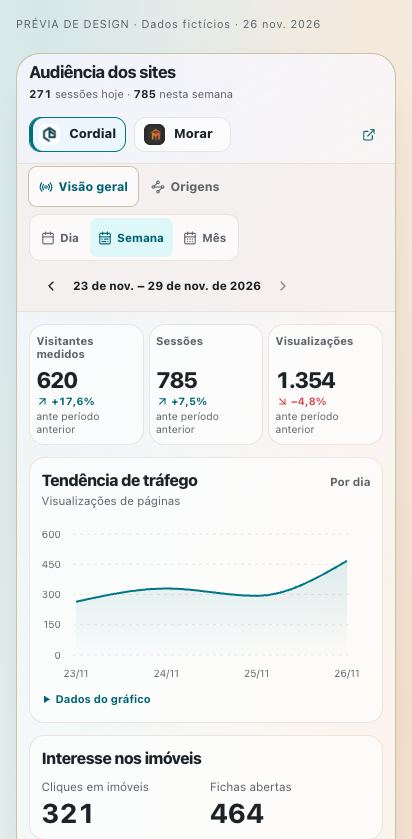
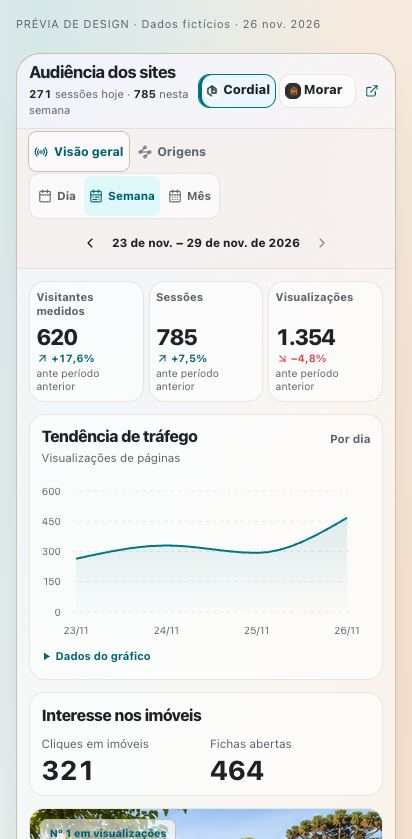
Mantém as marcas à direita também no celular

diff --git a/src/components/dashboard/site-audience.css b/src/components/dashboard/site-audience.css
@@ -828,12 +828,19 @@
   }
 }
 @media (max-width: 470px) {
-  .sa-date-controls {
-    gap: 0.2rem;
+  .sa-toolbar {
+    gap: 0.1rem 0.25rem;
   }
-  .sa-date-controls .sa-segment,
-  .sa-range {
-    justify-self: start;
+  .sa-date-controls {
+    display: contents;
+  }
+  .sa-toolbar .sa-range {
+    flex: 1 0 100%;
+    justify-content: center;
+  }
+  .sa-tab,
+  .sa-date-controls .sa-segment button {
+    padding-inline: 0.34rem;
   }
   .sa-segment button {
     min-height: 2.45rem;
@@ -863,13 +870,26 @@
     gap: 0.05rem;
   }
   .sa-header {
-    justify-content: flex-start;
+    flex-wrap: nowrap;
+    gap: 0.3rem;
   }
   .sa-heading {
-    flex-basis: 100%;
+    flex: 1 1 auto;
+  }
+  .sa-brand-list {
+    gap: 0.18rem;
+    flex: none;
+  }
+  .sa-brand-choice {
+    gap: 0.2rem;
+    padding-inline: 0.3rem;
+  }
+  .sa-brand-choice img {
+    width: 1rem;
+    height: 1rem;
   }
   .sa-open-site {
-    margin-left: auto;
+    padding-inline: 0.25rem;
   }
   .sa-sort button {
     min-height: 2rem;
